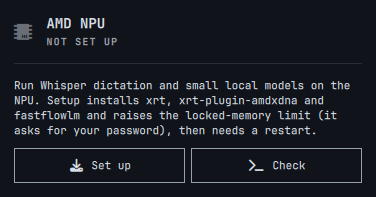
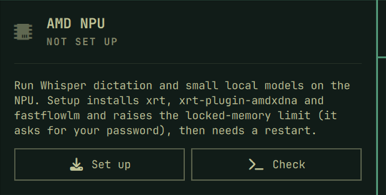
README: card screenshots retaken in Osaka Jade, plus the Released state
Shows the card as it is now: the NPU on/off switch with what it holds,
the F9 row, the microphone row, Warn on silence and the embeddings line.
card-released.png is new and joins the README's card table.

diff --git a/README.md b/README.md
@@ -114,11 +114,11 @@ A chip icon on the right of the bar: bright when the NPU server is up, dimmed wh
 hidden when it isn't set up. Click it for a card in the style of Omarchy's Wi-Fi, Bluetooth and
 power panels:
 
-| Whisper only | Sharing with an LLM | LLM on the NPU alone |
-|:---:|:---:|:---:|
-| <img src="docs/screenshots/card-whisper.png" width="260" alt="Card with Whisper only: dictation on the NPU, downloaded models listed with Share / NPU only and Load"> | <img src="docs/screenshots/card-share.png" width="260" alt="Card with qwen3.5:0.8b loaded next to Whisper: model details, memory, API address, Test LLM, Chat and Unload"> | <img src="docs/screenshots/card-exclusive.png" width="260" alt="Card with qwen3.5:0.8b on the NPU alone: dictation switch off, Voxtype on its CPU model"> |
+| Whisper only | Sharing with an LLM | LLM on the NPU alone | Released |
+|:---:|:---:|:---:|:---:|
+| <img src="docs/screenshots/card-whisper.png" width="200" alt="Card with Whisper only: NPU switch on showing what it holds, downloaded models with Share / NPU only and Load, dictation details, microphone, F9 mode and silence warning"> | <img src="docs/screenshots/card-share.png" width="200" alt="Card with qwen3.5:0.8b loaded next to Whisper: model details, memory, API address, Test LLM, Chat and Unload"> | <img src="docs/screenshots/card-exclusive.png" width="200" alt="Card with qwen3.5:0.8b on the NPU alone: Share the NPU with dictation button, Voxtype on its CPU model"> | <img src="docs/screenshots/card-released.png" width="200" alt="Card with the NPU released: switch off, NPU and memory free, dictation on the CPU model"> |
 
-- **Header:** READY, READY + LLM, LLM ONLY, LOCAL MODEL (Voxtype on its CPU model) or STOPPED, plus
+- **Header:** READY, READY + LLM, LLM ONLY, RELEASED, LOCAL MODEL (Voxtype on its CPU model) or STOPPED, plus
   your last dictation time.
 - **NPU:** the on/off switch, showing what the NPU holds (e.g. "On: dictation + qwen3.5:0.8b (2.0 GB
   NPU + 0.9 GB)"). Off **releases** the NPU: the server and any model stop, their memory is freed at

diff --git a/CLAUDE.md b/CLAUDE.md
@@ -107,9 +107,10 @@ clone once installed with `omarchy plugin add`). Edits here don't reach it until
 
 `preview.png` at the repo root (README top and the marketplace's card image) is a real 1920x1080 shot in Osaka Jade: card open, countdown with live waveform, bar chip timer. Retake it on an empty workspace (`hyprctl dispatch 'hl.dsp.focus({ workspace = "9" })'`), open the card, `voxtype record start`, someone talking, capture within ~3 s (before the silence warning), `record cancel`, switch back; strip metadata with `magick -strip -define png:exclude-chunks=date,time`.
 
-Card states: `card-whisper.png`, `card-share.png`, `card-exclusive.png` (qwen3.5:0.8b) and
-`card-setup.png` (the forced `install` state), all retaken in 0.7.0 in a dark theme on the 1080p HDMI
-screen. To retake them:
+Card states: `card-whisper.png`, `card-share.png`, `card-exclusive.png`, `card-released.png` (qwen3.5:0.8b)
+and `card-setup.png` (the forced `install` state), retaken 2026-10-16 in Osaka Jade on the Z13 screen
+(1600x1000 logical, `grim -s 1`). Give the card about 4 s after opening: its `status --json` refresh lands
+later than the old 1.5 s wait, and a stale card looks like the previous state. To retake them:
 
 1. Put the server in the state (`amd-npu load qwen3.5:4b [--exclusive --yes]`). After an
    exclusive switch, wait ~10 s for the desktop notification to clear before capturing.
